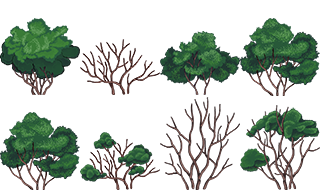
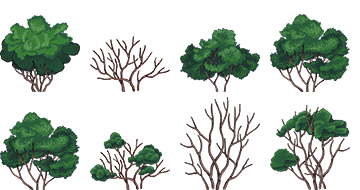
Между кустами на спрайте добавлено больше пространства, чтобы не было видно кусков соседних фреймов при отрисовки.

diff --git a/module/Background/Bush.js b/module/Background/Bush.js
@@ -3,7 +3,7 @@ export class Bush {
         this.fieldWidth = fieldWidth;
         this.topBoundary = topBoundary;
         this.image = document.getElementById('bushes');
-        this.spriteWidth = 80;
+        this.spriteWidth = 90;
         this.spriteHeight = 95;
         this.width = this.spriteWidth;
         this.height = this.spriteHeight;
